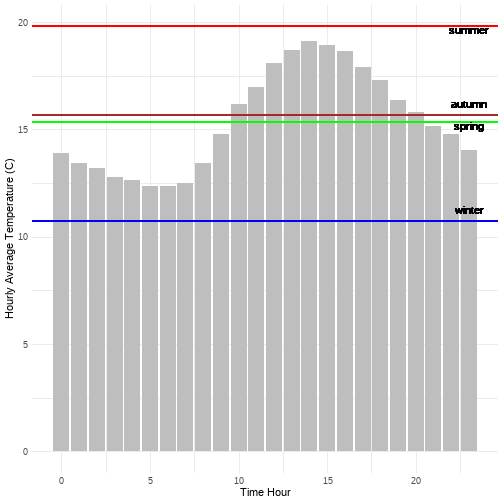
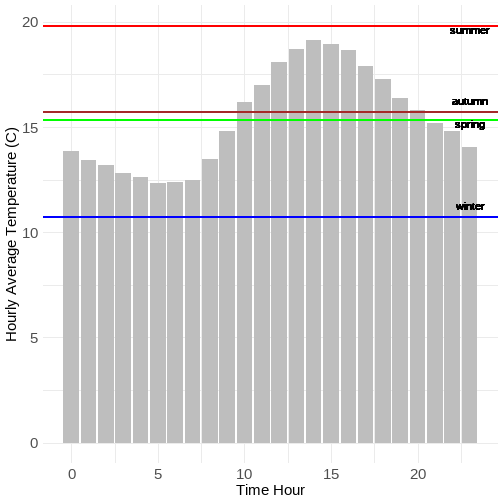
adding conclusion

diff --git a/season_in_a_day.html b/season_in_a_day.html
@@ -5,7 +5,7 @@
     <meta charset="utf-8" />
     <meta name="author" content="Dea Avega Editya" />
     <meta name="author" content="M. Soban Q." />
-    <meta name="date" content="2020-10-31" />
+    <meta name="date" content="2020-11-01" />
     <link rel="stylesheet" href="xaringan-themer.css" type="text/css" />
   </head>
   <body>
@@ -33,7 +33,7 @@ M. Soban Qasim
   
   
       
-Melbourne, 2020-10-31 
+Melbourne, 2020-11-01 
 ]
   
   
@@ -156,7 +156,8 @@ geom_text(aes(23, pull(ave_autumn), label = "autumn", vjust = -1)) +
     geom_text(aes(23, pull(ave_summer), label = "summer", vjust = 1)) + 
     geom_text(aes(23, pull(ave_spring), label = "spring", vjust = 1)) + 
     geom_text(aes(23, pull(ave_winter), label = "winter", vjust = -1)) + 
-    theme_minimal() + xlab("Time Hour") + ylab("Hourly Average Temperature (C)")
+    theme_minimal() + xlab("Time Hour") + ylab("Hourly Average Temperature (C)") + 
+    theme(axis.title = element_text(size = 15), axis.text = element_text(size = 15))
 ```
 ]
 
@@ -186,7 +187,8 @@ melb_temp %&gt;% filter(type == "TPH.RH-EPA-1h") %&gt;% group_by(hour) %&gt;%
     label = "summer", vjust = -0.5)) + geom_text(aes(23, pull(ave_rainspring), 
     label = "spring", vjust = 1)) + geom_text(aes(23, pull(ave_rainwinter), 
     label = "winter", vjust = -0.5)) + theme_minimal() + xlab("Time Hour") + 
-    ylab("Hourly Relative Humidity (%)")
+    ylab("Hourly Relative Humidity (%)") + theme(axis.title = element_text(size = 15), 
+    axis.text = element_text(size = 15))
 ```
 ]
 
@@ -211,7 +213,7 @@ From temperature &amp; humidity plots we know that:
 
 * People are true when they say that there are 4 seasons in a day in Melbourne!
 
-.pull-left[
+.top[
 
 ```r
 humi &lt;- melb_temp %&gt;% filter(type == "TPH.RH-EPA-1h") %&gt;% group_by(hour) %&gt;% 
@@ -220,7 +222,7 @@ humi &lt;- melb_temp %&gt;% filter(type == "TPH.RH-EPA-1h") %&gt;% group_by(hour
 temp &lt;- melb_temp %&gt;% filter(units == "C") %&gt;% group_by(hour) %&gt;% 
     summarise(ave_val = mean(value, na.rm = TRUE))
 
-ggplot() + geom_col(data = humi, aes(x = hour, y = ave_humid, 
+p &lt;- ggplot() + geom_col(data = humi, aes(x = hour, y = ave_humid, 
     fill = "humid")) + geom_col(data = temp, aes(x = hour, y = ave_val, 
     fill = "temp")) + geom_hline(yintercept = pull(ave_rainautumn), 
     color = "brown") + geom_hline(yintercept = pull(ave_rainsummer), 
@@ -231,13 +233,9 @@ ggplot() + geom_col(data = humi, aes(x = hour, y = ave_humid,
     color = "red") + geom_hline(yintercept = pull(ave_winter), 
     color = "blue") + geom_hline(yintercept = pull(ave_spring), 
     color = "green")
-theme_minimal() + xlab("Time Hour") + ylab("Hourly Relative Humidity (%) &amp; Hourly Average Temperature (C)")
+theme_minimal() + xlab("Time Hour") + ylab("Hourly Relative Humidity (%) &amp; Hourly Average Temperature (C)") + 
+    theme(axis.title = element_text(size = 20), axis.text = element_text(size = 20))
 ```
-]
-
-
-.pull-right[
-&lt;img src="season_in_a_day_files/figure-html/plot-out3-1.png" width="90%" /&gt;
 
 ```
 ## List of 95
@@ -272,7 +270,19 @@ theme_minimal() + xlab("Time Hour") + ylab("Hourly Relative Humidity (%) &amp; H
 ##   ..- attr(*, "class")= chr [1:2] "element_text" "element"
 ##  $ title                     : NULL
 ##  $ aspect.ratio              : NULL
-##  $ axis.title                : NULL
+##  $ axis.title                :List of 11
+##   ..$ family       : NULL
+##   ..$ face         : NULL
+##   ..$ colour       : NULL
+##   ..$ size         : num 20
+##   ..$ hjust        : NULL
+##   ..$ vjust        : NULL
+##   ..$ angle        : NULL
+##   ..$ lineheight   : NULL
+##   ..$ margin       : NULL
+##   ..$ debug        : NULL
+##   ..$ inherit.blank: logi FALSE
+##   ..- attr(*, "class")= chr [1:2] "element_text" "element"
 ##  $ axis.title.x              :List of 11
 ##   ..$ family       : NULL
 ##   ..$ face         : NULL
@@ -335,14 +345,14 @@ theme_minimal() + xlab("Time Hour") + ylab("Hourly Relative Humidity (%) &amp; H
 ##   ..$ family       : NULL
 ##   ..$ face         : NULL
 ##   ..$ colour       : chr "grey30"
-##   ..$ size         : 'rel' num 0.8
+##   ..$ size         : num 20
 ##   ..$ hjust        : NULL
 ##   ..$ vjust        : NULL
 ##   ..$ angle        : NULL
 ##   ..$ lineheight   : NULL
 ##   ..$ margin       : NULL
 ##   ..$ debug        : NULL
-##   ..$ inherit.blank: logi TRUE
+##   ..$ inherit.blank: logi FALSE
 ##   ..- attr(*, "class")= chr [1:2] "element_text" "element"
 ##  $ axis.text.x               :List of 11
 ##   ..$ family       : NULL
@@ -627,6 +637,12 @@ theme_minimal() + xlab("Time Hour") + ylab("Hourly Relative Humidity (%) &amp; H
 ##  - attr(*, "complete")= logi TRUE
 ##  - attr(*, "validate")= logi TRUE
 ```
+]
+
+---
+
+.center[
+![](season_in_a_day_files/figure-html/plot-out3-1.png)&lt;!-- --&gt;
 ]
     </textarea>
 <style data-target="print-only">@media screen {.remark-slide-container{display:block;}.remark-slide-scaler{box-shadow:none;}}</style>
